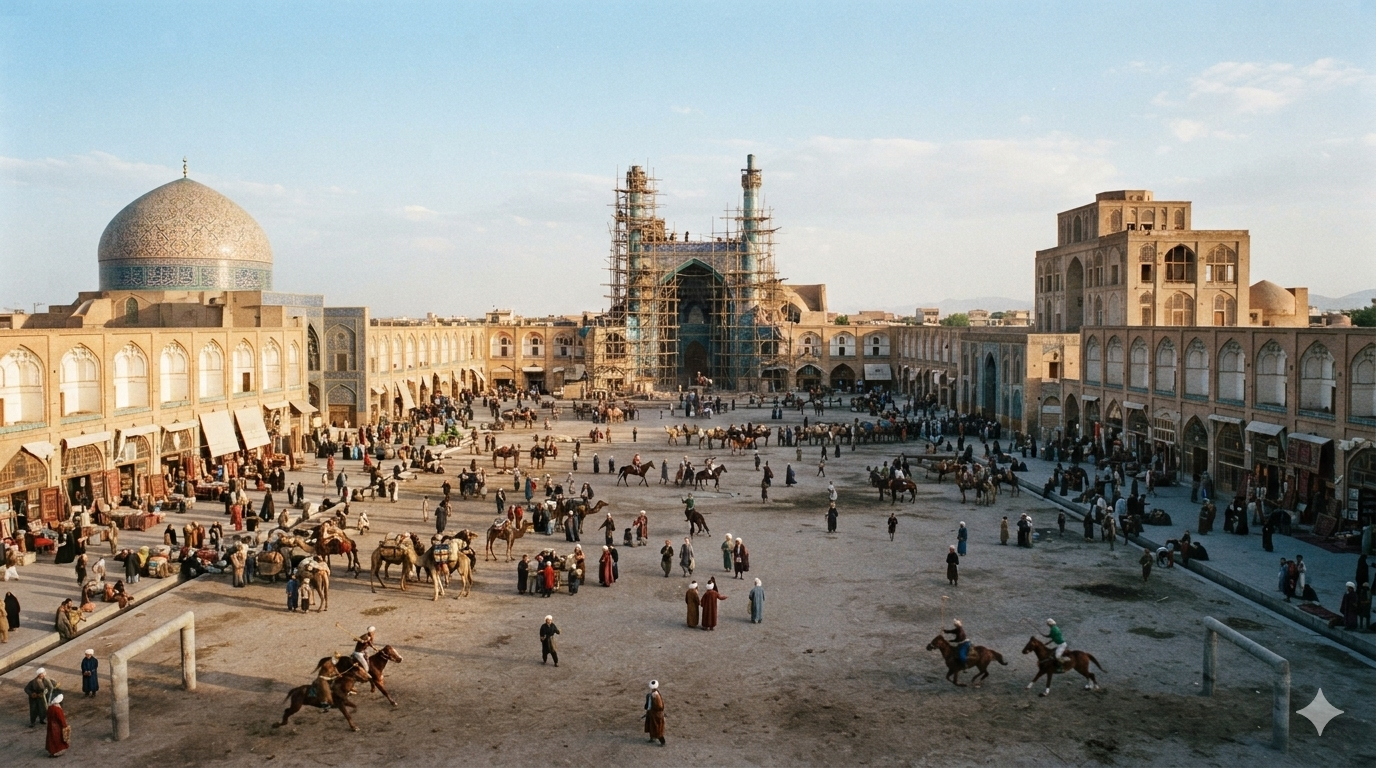
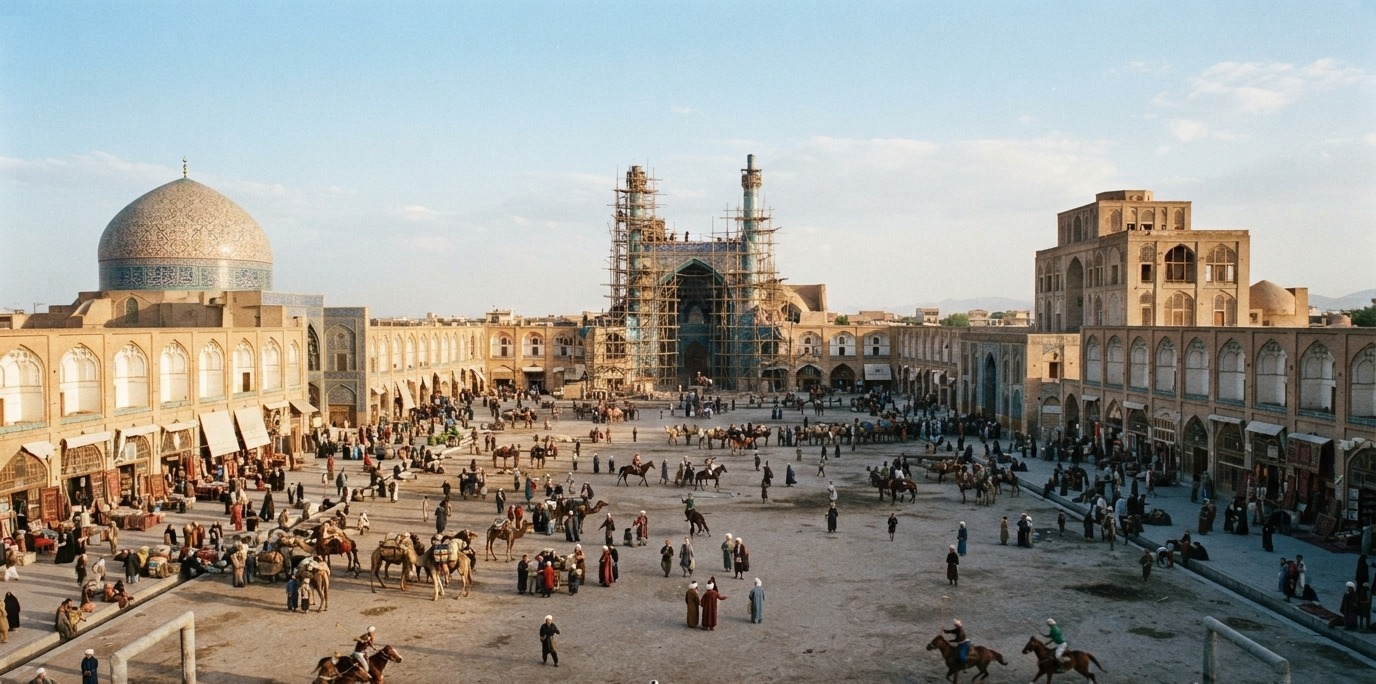
Topics 3.3 and 3.4: trim the Gemini sparkle off the files, drop cropBottom
cropBottom hides a strip by drawing the image taller than its frame. On the
story-scene and full-bleed frame-subtitle slides the frame reaches the
board's bottom edge, so teaching-os-deck-overflow.test.js read the hidden
strip as painted off the board (3.3 four slides, 3.4 two, at 1280x800 and
1024x768). Rather than loosen that gate, the bottom 84px of all ten uploads
were trimmed (1376x768 to 1376x684), as Topic 3.1 did with its own Gemini
pictures. The untrimmed originals, C2PA metadata included, stay in aa8d835
(3.3) and 7b7cd6c (3.4).

Claude-Session: https://claude.ai/code/session_012ah96VfbRzZDTLhGjs6HJA

diff --git a/teacher/data/slide-template-examples.js b/teacher/data/slide-template-examples.js
@@ -206,12 +206,12 @@ window.BH_SLIDE_TEMPLATE_EXAMPLES=[
       proves:'Art made a ruler look rightful to each group he ruled.'}}},
   {round:5,group:'Unit 3 shapes',name:'Story scene',note:'Story steps beside the scene they happen in: one or two pictures fill one edge of the board, the steps take the rest. Up to two pictures, stacked, each with an optional caption; side: \'left\' moves them. A tall slice of a wide picture is a heavy crop, so give each visual a position that keeps its subject.',slide:{
     kind:'story-scene',eyebrow:'Topic 3.3 · Islam · Rivalry',title:'Political rivalry intensifies an older divide.',
-    template:{visual:AI('3-3','3.3 - Chaldiran.jpg','Reconstruction of Ottoman infantry in tall white hats firing muskets from behind chained gun carts at charging Safavid horsemen in red caps',{position:'45% 50%',cropBottom:.11}),caption:'Chaldiran, 1514',
+    template:{visual:AI('3-3','3.3 - Chaldiran.jpg','Reconstruction of Ottoman infantry in tall white hats firing muskets from behind chained gun carts at charging Safavid horsemen in red caps',{position:'45% 50%'}),caption:'Chaldiran, 1514',
       steps:[{label:'1501',text:'Safavid state makes Twelver Shi\'a Islam official.'},{label:'Rivalry',text:'Sunni Ottoman and Shi\'a Safavid states compete.'},{label:'1514',text:'Ottoman victory at Chaldiran.'},{label:'Change',key:true,text:'Sectarian identity gains sharper imperial meaning.'}]}}},
   {round:5,group:'Unit 3 shapes',name:'Split scenes',note:'One job, two tools, each seen at work: a picture over each side\'s name and up to three points, and up to three things the two share along the bottom. For a comparison that keeps the category constant. A cut-out figure or a portrait takes fit: \'contain\'.',slide:{
     kind:'split-scenes',eyebrow:'Topic 3.4 · Job Three · Pay',title:'Influence costs money.',footer:'Same job: pay. Do not rank the systems; explain the mechanism.',
-    template:{left:{name:'Ottoman tax farming',items:['Collection rights granted for payment','State gains revenue'],visual:AI('3-4','3.4 - Ottoman Tax Farm.jpg','Reconstruction of Ottoman officials and bidders on carpets in a tiled room, with ledgers and bags of coins',{cropBottom:.11})},
-      right:{name:'Mughal land revenue',items:['Agricultural revenue central','Zamindars among local intermediaries'],visual:AI('3-4','3.4 - Mughal Land Survey.jpg','Reconstruction of Mughal revenue officials measuring a wheat field with a jointed bamboo rod while a scribe records',{cropBottom:.11})},
+    template:{left:{name:'Ottoman tax farming',items:['Collection rights granted for payment','State gains revenue'],visual:AI('3-4','3.4 - Ottoman Tax Farm.jpg','Reconstruction of Ottoman officials and bidders on carpets in a tiled room, with ledgers and bags of coins',{})},
+      right:{name:'Mughal land revenue',items:['Agricultural revenue central','Zamindars among local intermediaries'],visual:AI('3-4','3.4 - Mughal Land Survey.jpg','Reconstruction of Mughal revenue officials measuring a wheat field with a jointed bamboo rod while a scribe records',{})},
       both:['Turn local resources into state revenue','Support armies and government']}}},
 ];
 })();

diff --git a/assets/data/presentations/topic-3-4-student.js b/assets/data/presentations/topic-3-4-student.js
@@ -39,7 +39,6 @@ window.BEHISTORICAL_STUDENT_DECK = {
           "url": "../assets/images/topics/3-4/3.4%20-%20Isfahan.jpg",
           "alt": "Reconstruction of Naqsh-e Jahan Square in Isfahan: a long open square with camels, riders and a polo game, a tiled dome on the left, a great mosque under scaffolding at the far end and a tall palace on the right, with shops under arcades on both sides",
           "ai": true,
-          "cropBottom": 0.11,
           "position": "50% 40%"
         }
       }
@@ -145,7 +144,6 @@ window.BEHISTORICAL_STUDENT_DECK = {
             "url": "../assets/images/topics/3-4/3.4%20-%20Mughal%20Mansabdar.jpg",
             "alt": "Reconstruction of a Mughal muster in a red sandstone courtyard: a groom brands a horse while an officer and a line of armored troopers wait, and two scribes write in ledgers at a low table",
             "ai": true,
-            "cropBottom": 0.11,
             "position": "45% 50%"
           }
         },
@@ -171,7 +169,6 @@ window.BEHISTORICAL_STUDENT_DECK = {
             "url": "../assets/images/topics/3-4/3.4%20-%20Ottoman%20Tax%20Farm.jpg",
             "alt": "Reconstruction of an Ottoman tax-farm auction: turbaned officials and bidders sit on carpets in a blue-tiled room, one pointing as he bids, with ledgers open and bags of coins on a cushion",
             "ai": true,
-            "cropBottom": 0.11,
             "position": "50% 45%"
           }
         },
@@ -185,7 +182,6 @@ window.BEHISTORICAL_STUDENT_DECK = {
             "url": "../assets/images/topics/3-4/3.4%20-%20Mughal%20Land%20Survey.jpg",
             "alt": "Reconstruction of a Mughal revenue survey: two men stretch a jointed bamboo measuring rod across a wheat field while a scribe writes at a low desk and an official sits under a parasol",
             "ai": true,
-            "cropBottom": 0.11,
             "position": "40% 50%"
           }
         },
@@ -243,7 +239,6 @@ window.BEHISTORICAL_STUDENT_DECK = {
           "url": "../assets/images/topics/3-3/3.3%20-%20Chaldiran.jpg",
           "alt": "Reconstruction of the Battle of Chaldiran: Ottoman infantry in tall white felt hats fire muskets from behind chained cannons and carts at charging Safavid horsemen in red-topped caps",
           "ai": true,
-          "cropBottom": 0.11,
           "position": "50% 62%"
         }
       }
@@ -314,7 +309,6 @@ window.BEHISTORICAL_STUDENT_DECK = {
           "url": "../assets/images/topics/3-4/3.4%20-%20Manchu%20enter%20China.jpg",
           "alt": "Reconstruction of Manchu horsemen in yellow, white, red and blue armor riding through a gate in the Great Wall under a plaque reading First Pass Under Heaven, past Ming soldiers in red, with the wall running down the mountains to the sea",
           "ai": true,
-          "cropBottom": 0.11,
           "position": "50% 45%"
         }
       }

diff --git a/assets/data/presentations/topic-3-3-student.js b/assets/data/presentations/topic-3-3-student.js
@@ -100,7 +100,6 @@ window.BEHISTORICAL_STUDENT_DECK = {
               "url": "../assets/images/topics/3-3/3.3%20-%20German%20Printing%20Shop.jpg",
               "alt": "Reconstruction of a German print shop: a pressman pulls the bar of a wooden screw press, a boy holds two leather ink balls, a compositor sets type from a slanted case, and printed sheets hang drying on lines overhead",
               "ai": true,
-              "cropBottom": 0.11,
               "position": "38% 50%"
             }
           }
@@ -140,7 +139,6 @@ window.BEHISTORICAL_STUDENT_DECK = {
               "url": "../assets/images/topics/3-3/3.3%20-%20Catholic%20Reformation.jpg",
               "alt": "Reconstruction of the Council of Trent: rows of bishops in white miters and cardinals in red facing each other across a church nave while clerks write at a table in the center",
               "ai": true,
-              "cropBottom": 0.11,
               "position": "50% 55%"
             }
           },
@@ -150,7 +148,6 @@ window.BEHISTORICAL_STUDENT_DECK = {
               "url": "../assets/images/topics/3-3/3.3%20-%20Mateo%20Ricci.jpg",
               "alt": "Reconstruction of Matteo Ricci, a bearded European in a black Chinese scholar's robe and hat, writing Chinese characters with a brush beside a Chinese scholar, with a world map and an astrolabe on the desk",
               "ai": true,
-              "cropBottom": 0.11,
               "position": "45% 45%"
             }
           }
@@ -196,7 +193,6 @@ window.BEHISTORICAL_STUDENT_DECK = {
               "url": "../assets/images/topics/3-3/3.3%20-%20Chaldiran.jpg",
               "alt": "Reconstruction of the Battle of Chaldiran: Ottoman infantry in tall white felt hats fire muskets from behind cannons and carts chained together, while Safavid horsemen in red-topped caps charge across a dusty plain",
               "ai": true,
-              "cropBottom": 0.11,
               "position": "45% 50%"
             }
           }
@@ -272,7 +268,6 @@ window.BEHISTORICAL_STUDENT_DECK = {
               "url": "../assets/images/topics/3-3/3.3%20-%20Sikh.jpg",
               "alt": "Reconstruction of a langar in a Punjab village: long rows of men and women in turbans and head scarves sit on the ground eating from brass plates while servers carry pots of food, with wheat fields and a river behind",
               "ai": true,
-              "cropBottom": 0.11,
               "position": "50% 55%"
             }
           }

diff --git a/teacher/data/topic-3-3-presentation-assets.js b/teacher/data/topic-3-3-presentation-assets.js
@@ -7,8 +7,12 @@
  * - protestant, catholic, chaldiran, sikh-emerge (story-scene): five pictures
  *   Jeff uploaded to assets/images/topics/3-3/ on 2026-10-13. All five are
  *   AI-generated: each is Gemini's 1376x768, carries C2PA content credentials,
- *   and has the Gemini sparkle in its bottom-right corner, which `cropBottom`
- *   hides (the sparkle sits in the bottom 11%). The template prints the house
+ *   and had the Gemini sparkle in its bottom-right corner. The bottom 84px
+ *   of each file were trimmed on 2026-10-13 to remove it (now 1376x684), as
+ *   Topic 3.1 did, rather than hidden with `cropBottom`: these frames reach the
+ *   board's edge, and an image drawn taller than its frame there reads as
+ *   painted off the board to teaching-os-deck-overflow.test.js. The trim also
+ *   dropped the C2PA metadata; the untrimmed originals are in commit aa8d835. The template prints the house
  *   label from `ai: true`, and each slide's notes say what the picture gets right
  *   and what it gets wrong, so the room reads it as a reconstruction:
  *   - Catholic Reformation: the Council of Trent. The crowd is far too big.
@@ -33,7 +37,7 @@ const T=window.BEHISTORICAL_TEACHING;
 if(!T||!Array.isArray(T.slides))return;
 const by=id=>T.slides.find(s=>s.phase===id);
 const LOCAL='../assets/images/topics/3-3/';
-const AI=(name,alt,extra)=>Object.assign({url:LOCAL+encodeURIComponent(name),alt,ai:true,cropBottom:.11},extra||{});
+const AI=(name,alt,extra)=>Object.assign({url:LOCAL+encodeURIComponent(name),alt,ai:true},extra||{});
 
 const map=by('rivalry-map');
 if(map)map.visual={

diff --git a/teacher/data/topic-3-4-presentation-assets.js b/teacher/data/topic-3-4-presentation-assets.js
@@ -5,8 +5,11 @@
  *
  * Five pictures Jeff uploaded to assets/images/topics/3-4/ on 2026-10-13. All
  * five are AI-generated: each is Gemini's 1376x768, carries C2PA content
- * credentials and has the Gemini sparkle in its bottom-right corner, which
- * `cropBottom` hides (the Manchu picture also has a thin black strip there).
+ * credentials and had the Gemini sparkle in its bottom-right corner (the
+ * Manchu picture also had a thin black strip along the bottom). The bottom 84px
+ * of each file were trimmed on 2026-10-13 to remove both (now 1376x684), for
+ * the reason given in topic-3-3-presentation-assets.js; the untrimmed
+ * originals, with their C2PA metadata, are in commit 7b7cd6c.
  * The templates print the house label from `ai: true`, and each slide's notes
  * say what the picture shows and what it gets wrong:
  * - question (frame-subtitle): Isfahan, Naqsh-e Jahan Square. Polo goals drawn
@@ -37,7 +40,7 @@ const T=window.BEHISTORICAL_TEACHING;
 if(!T||!Array.isArray(T.slides))return;
 const by=id=>T.slides.find(s=>s.phase===id);
 const IMG='../assets/images/topics/';
-const AI=(folder,name,alt,extra)=>Object.assign({url:IMG+folder+'/'+encodeURIComponent(name),alt,ai:true,cropBottom:.11},extra||{});
+const AI=(folder,name,alt,extra)=>Object.assign({url:IMG+folder+'/'+encodeURIComponent(name),alt,ai:true},extra||{});
 
 const panipat=by('expand-proof');
 if(panipat)panipat.visual={
